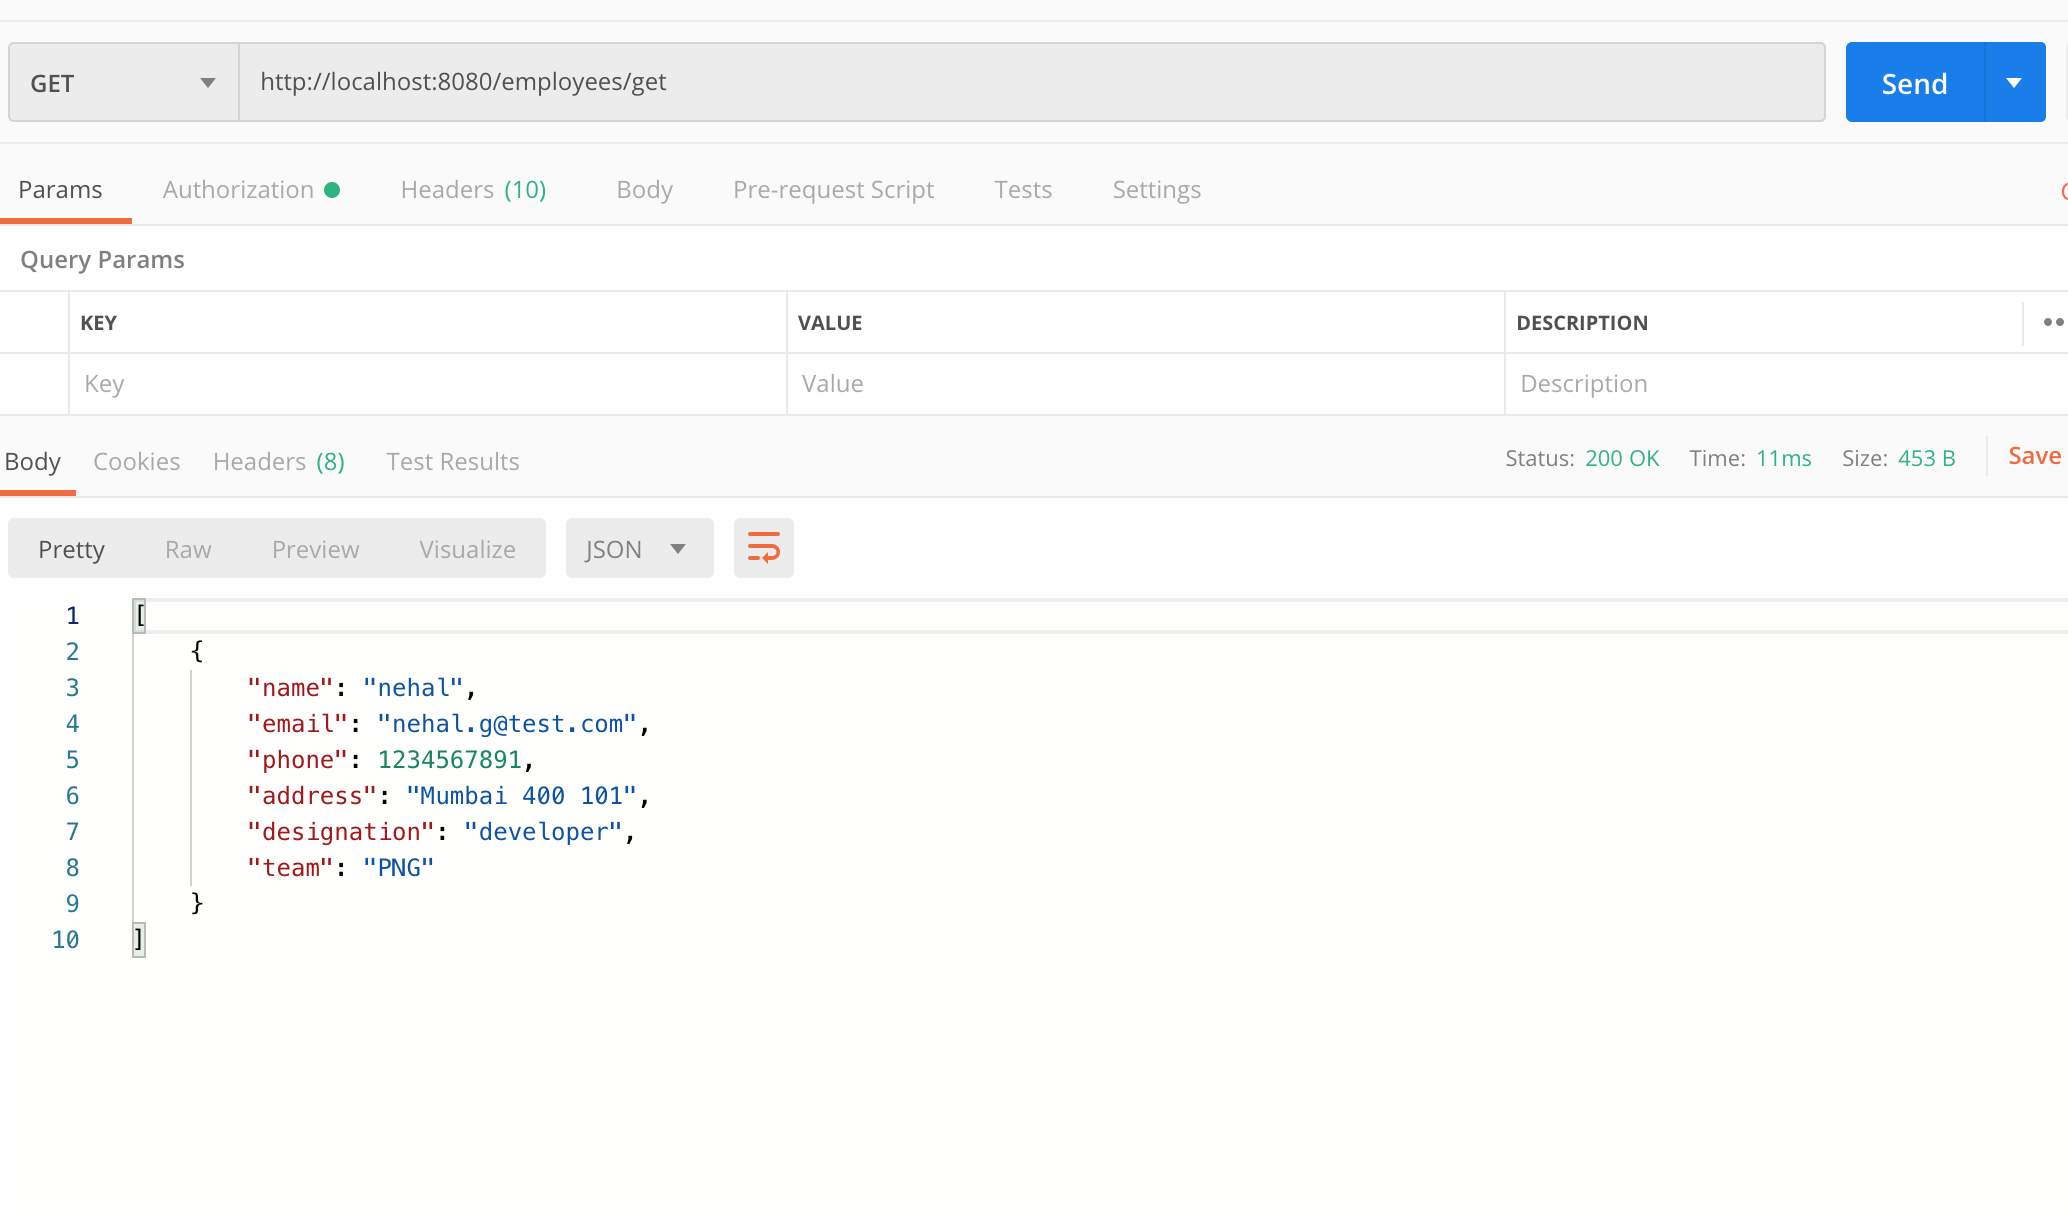
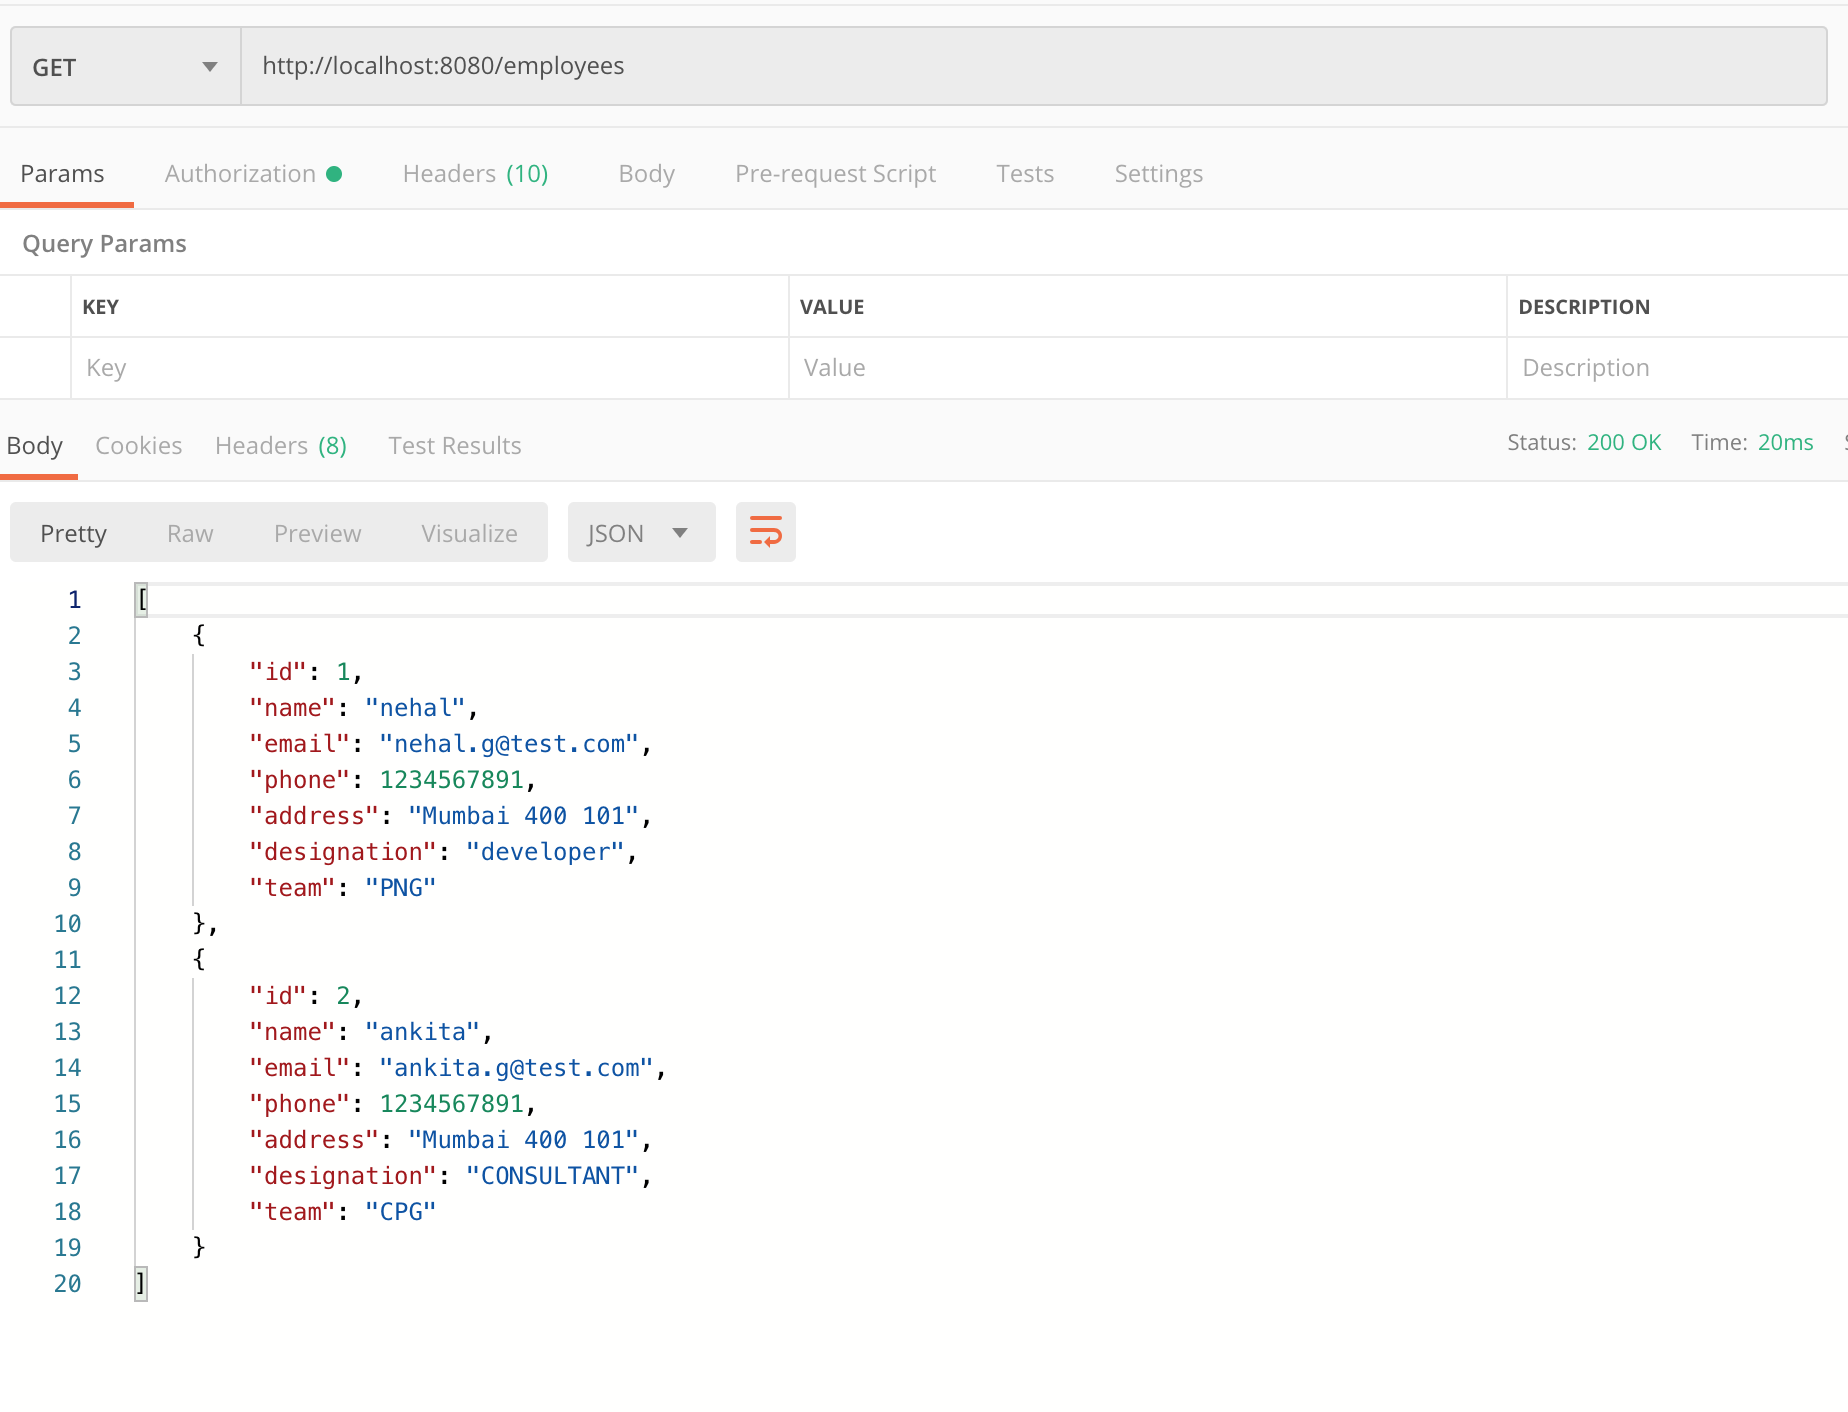
Express

diff --git a/Sprint_2/5. Express/5.2 Handling HTTP GET Requests.md b/Sprint_2/5. Express/5.2 Handling HTTP GET Requests.md
@@ -28,12 +28,21 @@ Note: We are using local employees array in the project since we are not connect
 
 ```js
 let employees = [{
+    "id": 1,
     "name": "nehal",
     "email": "nehal.g@test.com",
     "phone": 1234567891,
     "address": "Mumbai 400 101",
     "designation": "developer",
     "team": "PNG"
+}, {
+    "id": 2,
+    "name": "ankita",
+    "email": "ankita.g@test.com",
+    "phone": 1234567891,
+    "address": "Mumbai 400 101",
+    "designation": "CONSULTANT",
+    "team": "CPG"
 }];
 ```
 This is going to our base data for the entire project and we will be building on top of this. But once we start using a databse we can fetch the employees from that database and perform operations on that.
@@ -42,18 +51,23 @@ We need 3 GET end points for our project
 1. /employee/get: This end point will fetch and return all the employees. This one is pretty straightforward
 
 ```js
-    app.get("/employees/get", (request, response) => {
+app.get("/employees", (request, response) => {
     //We have seen what request and reponse are in the previous chapter.
     response.send(employees);
 });
 ```
 
 Output: 
-![](../7.%20project/images/expressjs.png)
+![](../7.%20project/images/1.png)
 
-2. /employee/get/{id} : We will get a employee by id
+2. /employee/{id} : We will get a employee by id
 Here {id} is a path parameter. 
 
+```js
+app.get("/employees/:id", (request, response) => { 
+    
+});
+```
 
 ### What you must do
 - Watch this video revise the [Rest Concepts and further watch on how to write a GET API in Express](https://www.youtube.com/watch?v=pKd0Rpw7O48&t=65s). Watch only the first 30 minutes of the video.

diff --git a/Sprint_2/7. project/project.md b/Sprint_2/7. project/project.md
@@ -19,18 +19,21 @@ Admin will be able to do following using CURL or postman.
 - Update Employee details like phone, team, address etc
 - Delete/Remove an employee from the organisation
 
-API's that we would be building:
+API's that we would be building and output of the same:
 We would be creating the following endpoints -
-- GET: /employees/get: Will get all the employees
+- GET: /employees: Will get all the employees
     - This endpoint will fetch the employee list
+    - Output:
+    ![](./images/1.png)
+
 - GET: /employees/{id} : Will get a employee by id
-    - Example - /employees/1
-    - This API will get a employee by ID. In the above example the API will get the employee whose id is 1
+    - Example - /employees/2
+    - This API will get a employee by ID. In the above example the API will get the employee whose id is 2
+    - Output:
+    ![](./images/1.png)
 - GET: /employees?name=name&email=email
     - Example - /employees?name=test&email=a@b.com
     - This API will search an whose email is test and email is a@b.com.
 - POST : /employees : Creates a employee
 - PUT: /employees/{id} : Updates a employee by id
 - DELETE: /employees/{id} : Removes a employee by ID
-
-Output:
